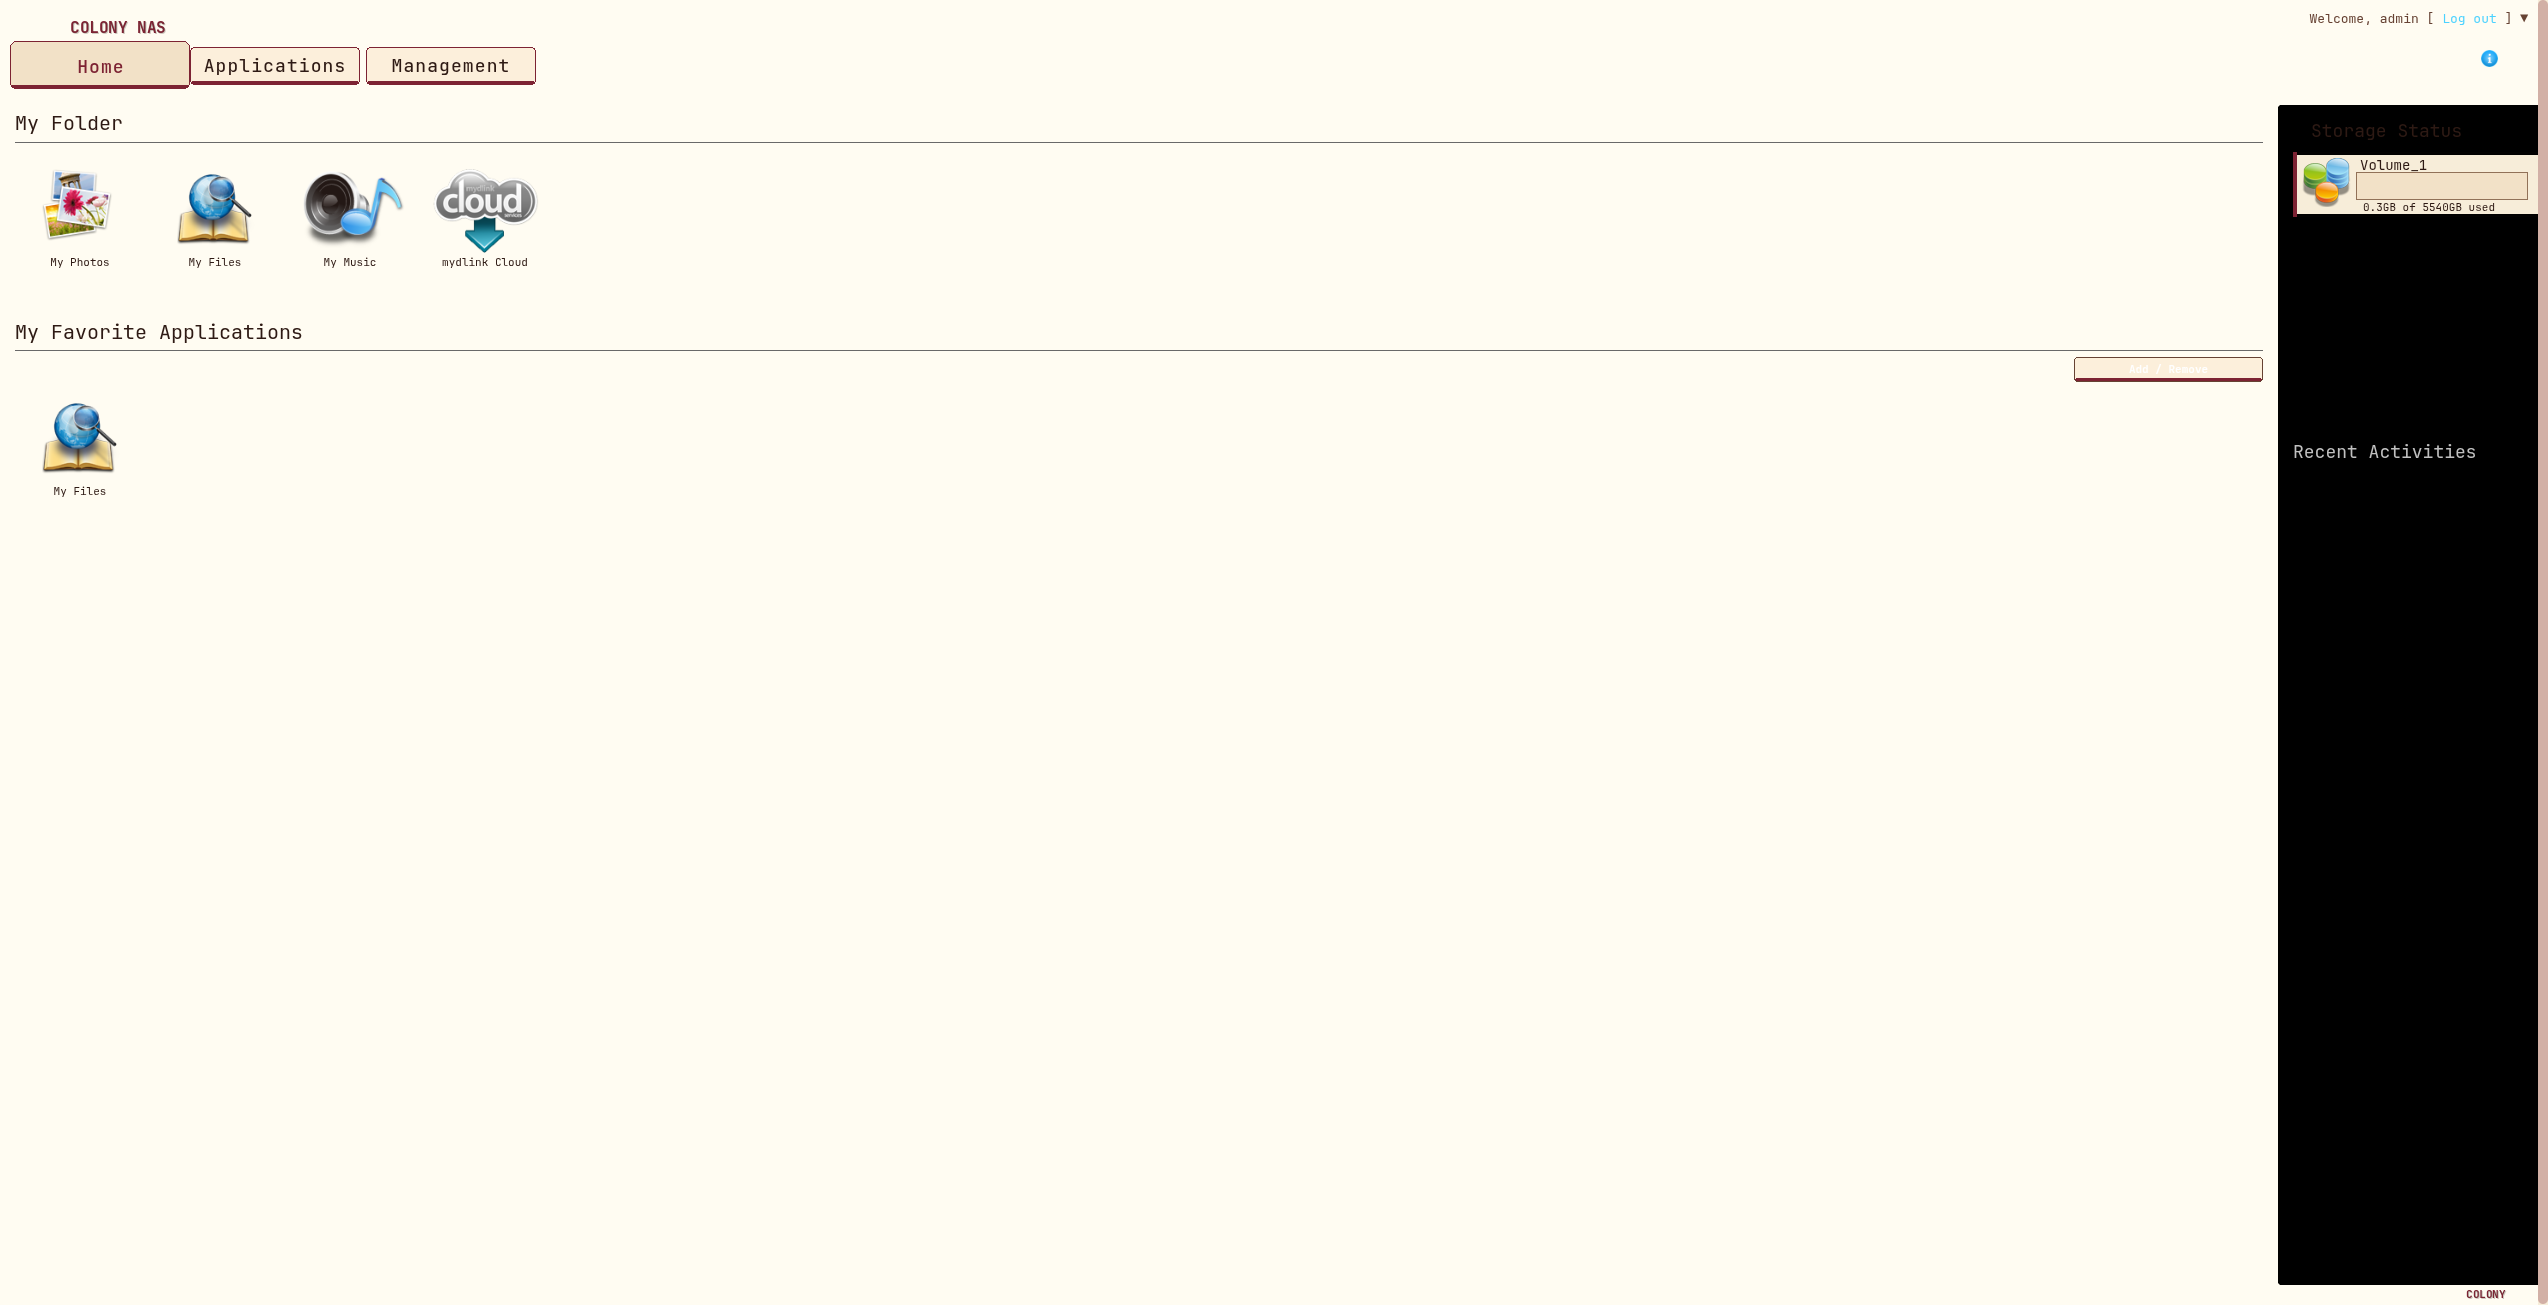
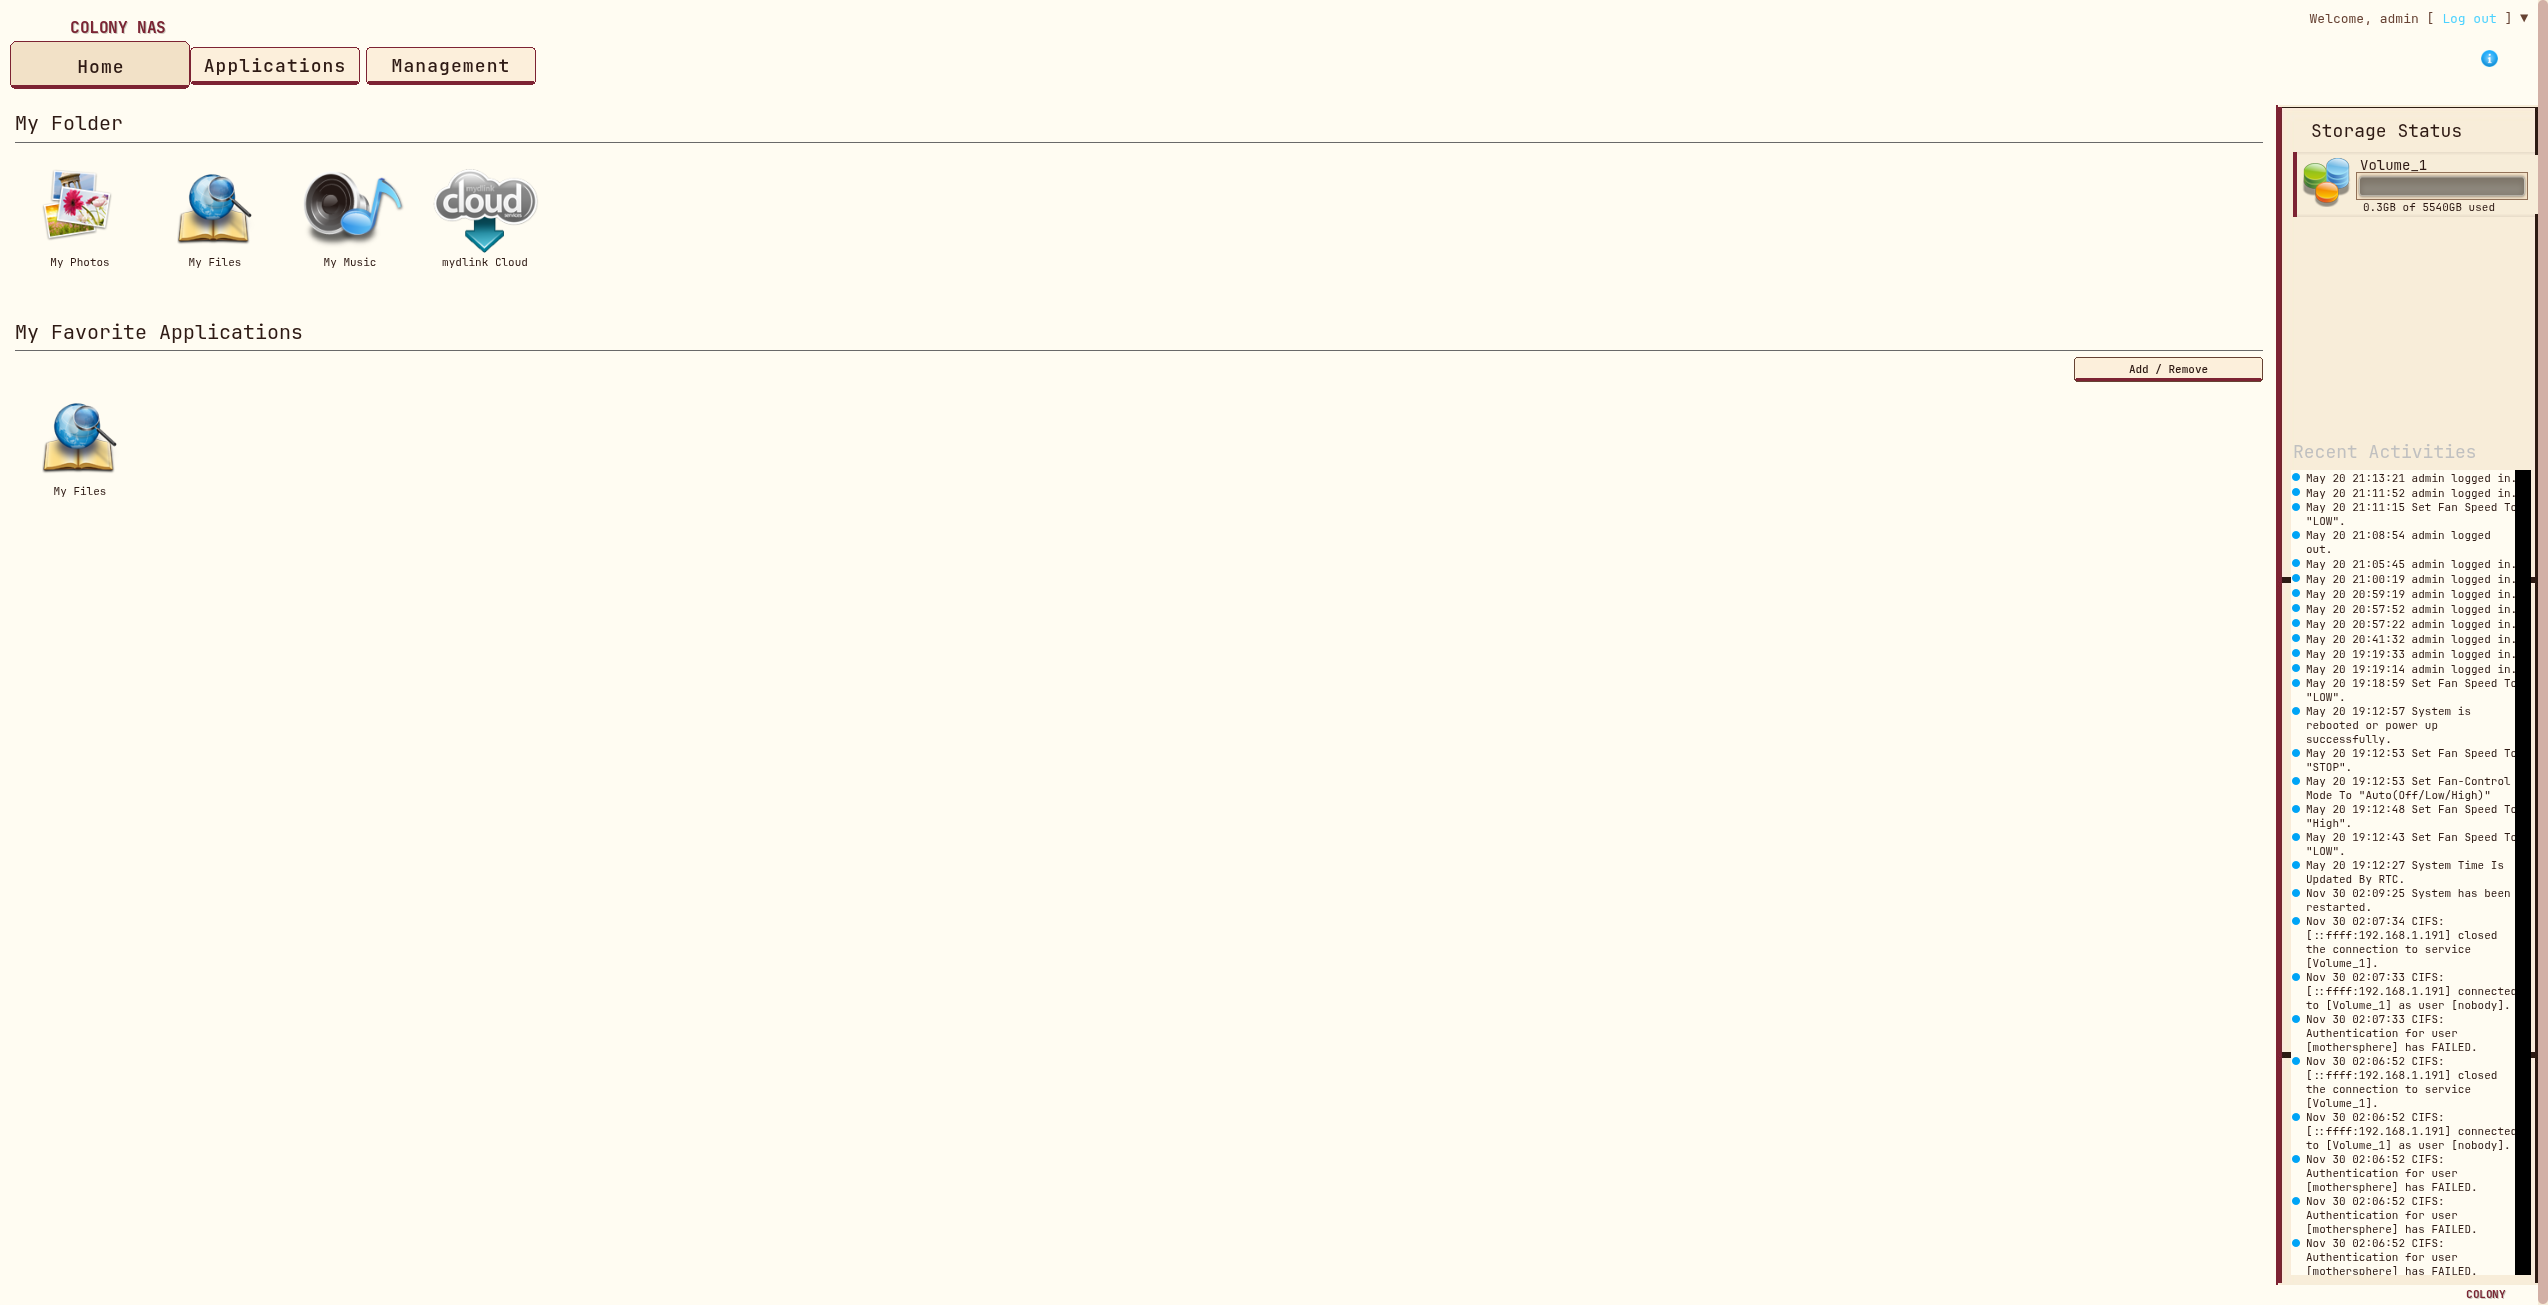
fix(home): override inline #000000 backgrounds on right-side panels
home.html has an inline <style> block in its <head> that sets
background:#000000 on .device_status (Storage Status panel),
.scroll-pane (Recent Activities log), and the .jScrollPane track +
drag. Because that inline style block is loaded AFTER our external
style.css (source order), D-Link won the cascade and the right side
of the home page stayed pitch black.

Fix: override the same selectors in overrides.css with !important.
Inline non-important rules lose to external rules with !important.

- .device_status now uses parchment-soft + the bind-mounted lbox_bg.jpg
  + a 2px burgundy left border for branding
- .scroll-pane (Recent Activities) goes parchment with ink text
- jScrollPane track + drag get parchment-pressed + red-soft accent

Changed region(s): [[0.8681, 0.0613, 1.0, 1.0]]

diff --git a/theme/css/overrides.css b/theme/css/overrides.css
@@ -87,13 +87,40 @@ h5, H5 {
    D-Link assumes dark gray panel; we have parchment now.
    ========================================================================= */
 
-.device_status,
+.device_status {
+    /* home.html has an inline <style> setting background:#000000 — we beat
+       it with !important. The bind-mounted lbox_bg.jpg still loads as the
+       bg image on the .device_status with the catalogue color. */
+    background: var(--colony-parchment-soft) !important;
+    background-image: url('/web/images/lbox_bg.jpg') !important;
+    color: var(--colony-ink) !important;
+    border-left: var(--colony-border-panel) solid var(--colony-red) !important;
+}
+
 .volume_info,
 .v_name,
 .size_info,
 .p_size,
 #title,
 #comment {
+    color: var(--colony-ink) !important;
+}
+
+/* Same inline-style fight for Recent Activities scrollable area */
+.scroll-pane {
+    background: var(--colony-parchment) !important;
+    color: var(--colony-ink) !important;
+}
+
+.holder .jScrollPaneTrack {
+    background: var(--colony-parchment-pressed) !important;
+}
+
+.holder .jScrollPaneDrag {
+    background: var(--colony-red-soft) !important;
+}
+
+.holder {
     color: var(--colony-ink) !important;
 }
 